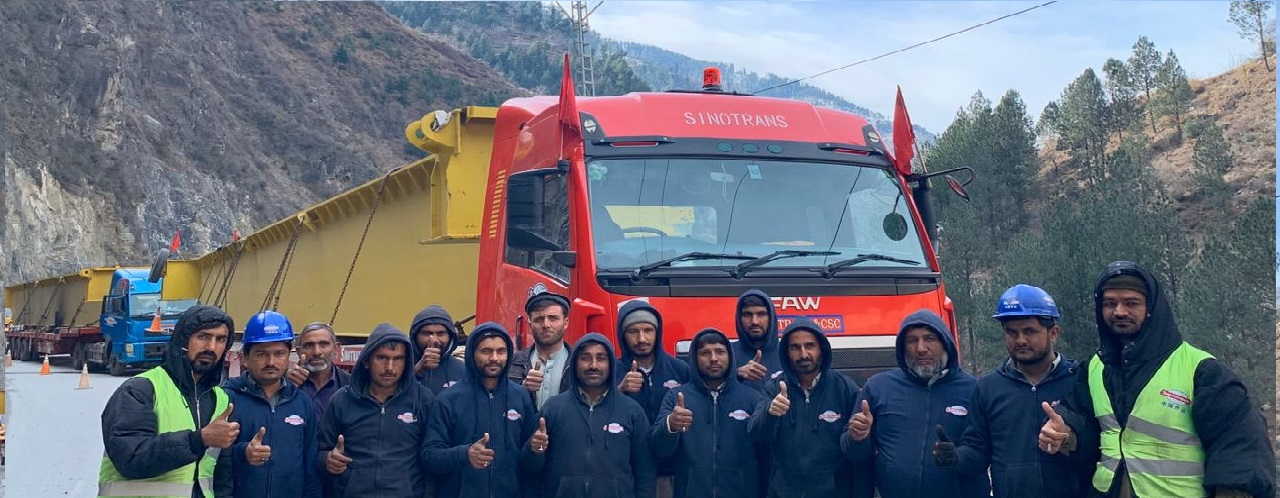
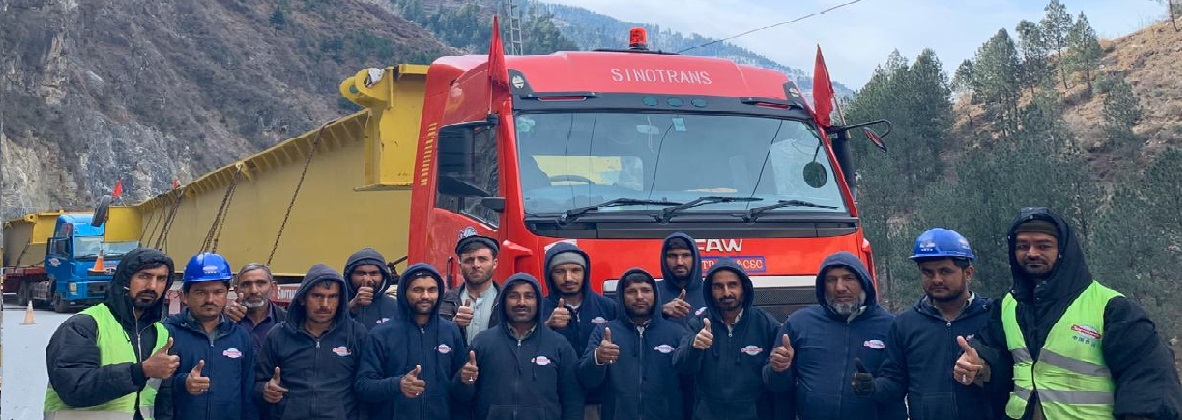
add new image on why sinotranc section

diff --git a/resources/views/frontend/pages/whySinotrans.blade.php b/resources/views/frontend/pages/whySinotrans.blade.php
@@ -9,10 +9,16 @@
     .about.about-5 {
     padding-bottom: 20px;
 }
+.bg-overlay-dark:before {
+    background-image: -webkit-gradient(linear,left top,left bottom,from(rgb(40 40 40 / 0%)),color-stop(90%,rgb(27 26 26 / 0%)));
+    background-image: -o-linear-gradient(top,#1B1A1A 0%,rgba(27,26,26,0) 90%);
+    background-image: linear-gradient(
+180deg,rgb(40 40 40 / 0%) 0%,rgba(27,26,26,0) 90%);
+}
 </style>
 @endpush
 <section class="page-title page-title-4 bg-overlay bg-overlay-dark bg-parallax" id="page-title">
-    <div class="bg-section"><img src="{{asset('assets/images/page-titles/team.jpeg')}}" alt="Background"></div>
+    <div class="bg-section"><img src="{{asset('assets/images/page-titles/teamabout.jpg')}}" alt="Background"></div>
     <div class="container">
     <div class="row">
     <div class="col-12 col-lg-6">
